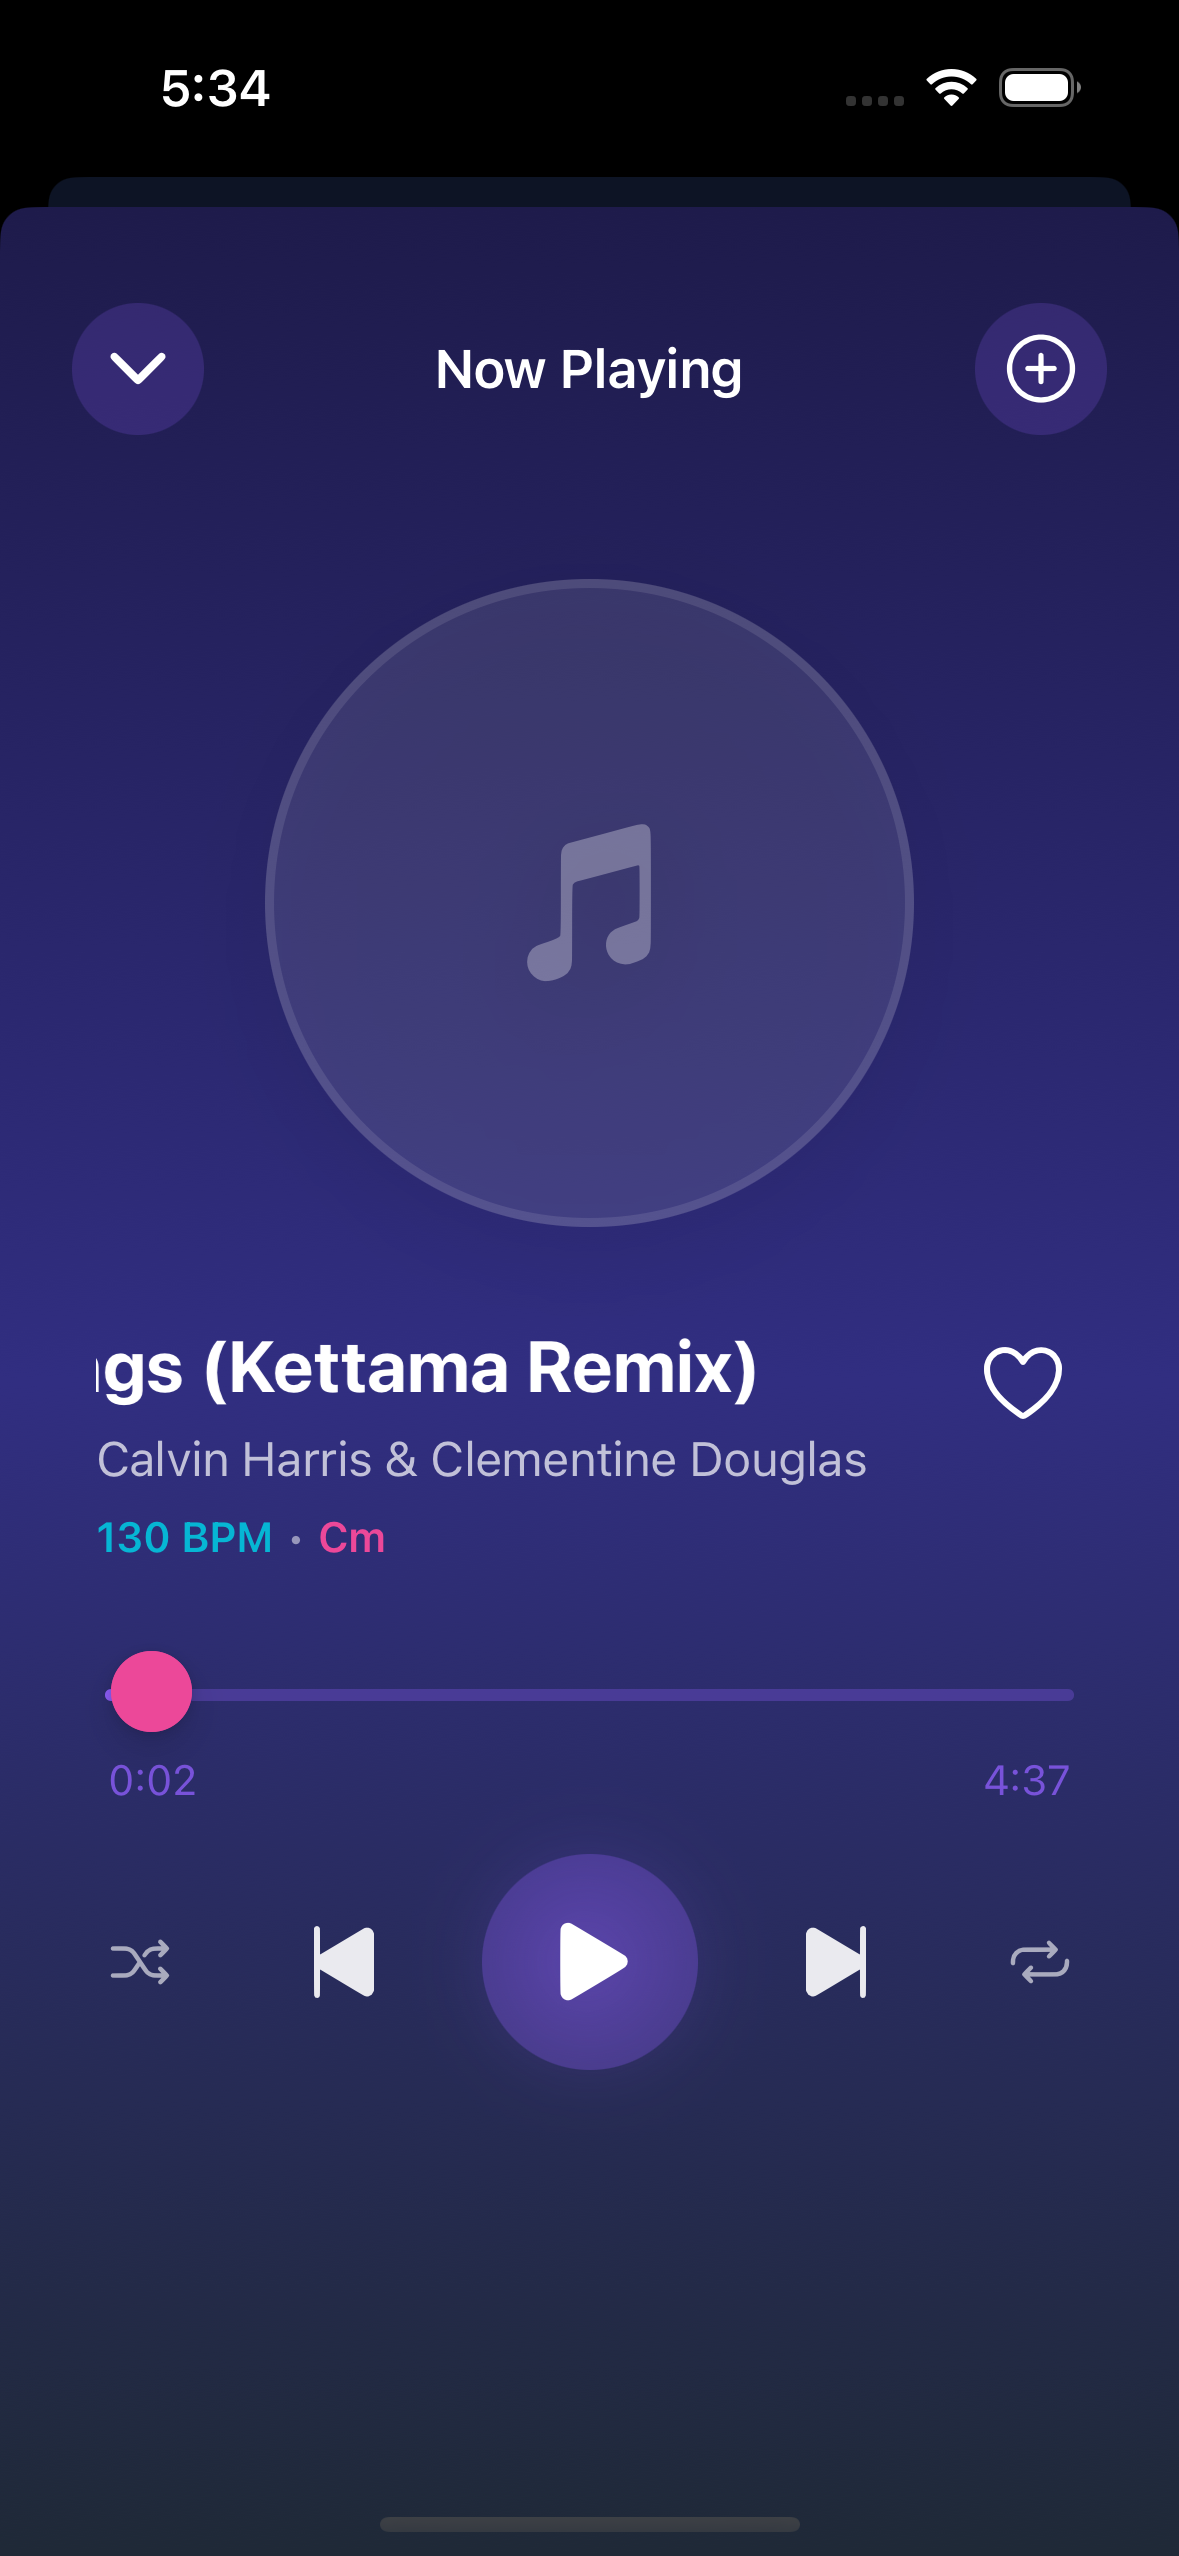
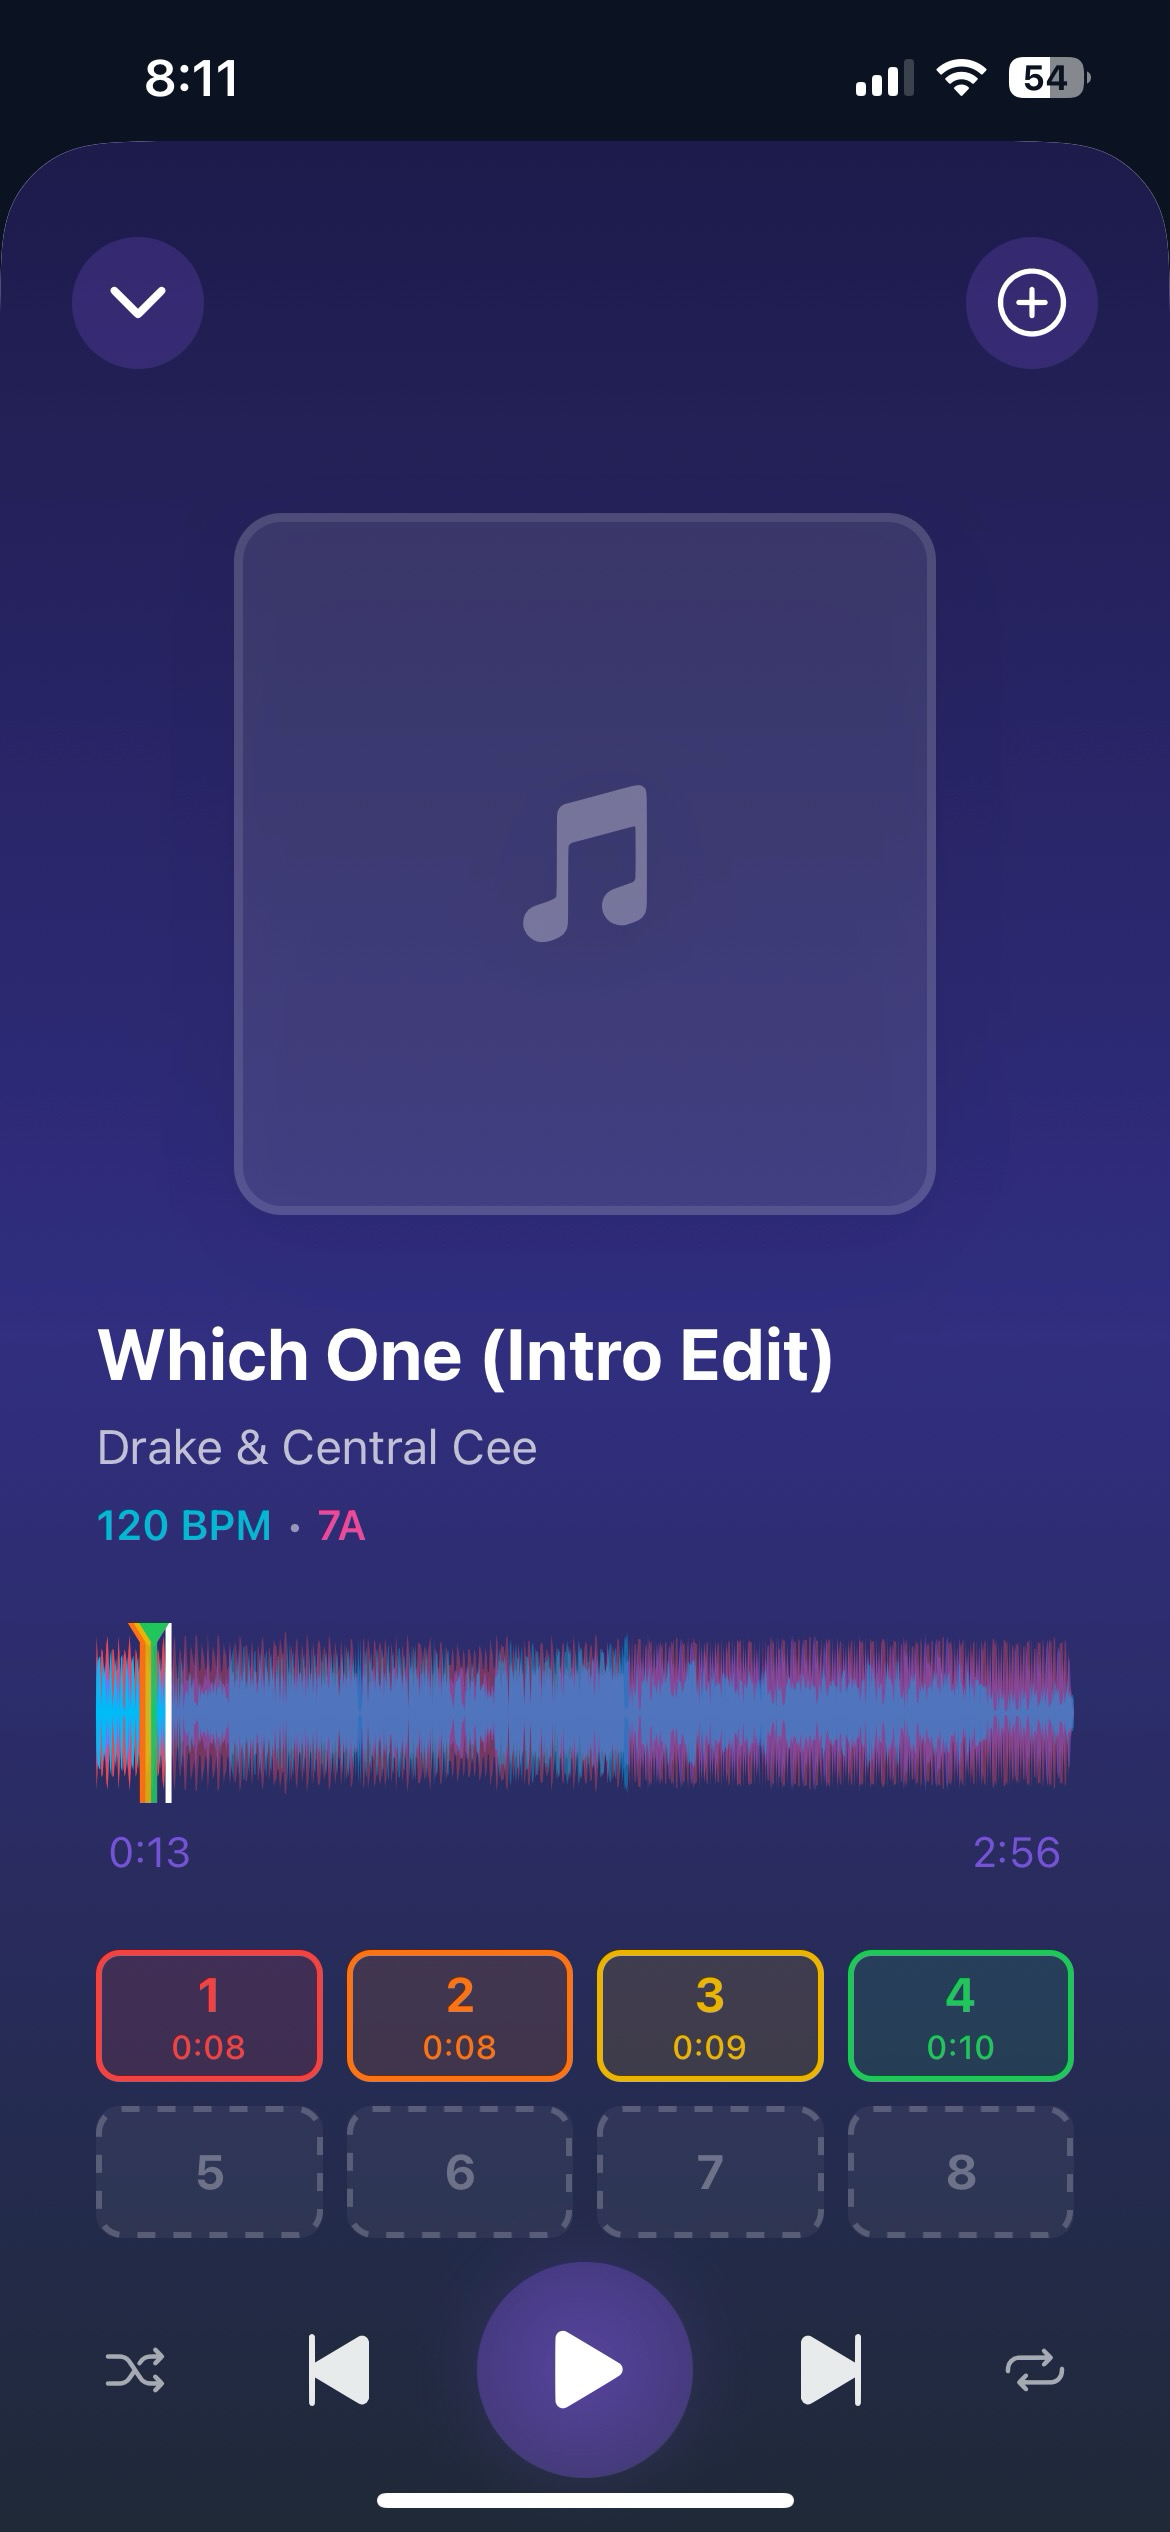
Feature: Add How to Use & FAQ sections to website
- Add "How to Use" section with 4-step setup guide
- Add "FAQ" section with 7 expandable questions
- Update navigation with new section links
- Update player screenshot with waveform/cue points view
- Update feature descriptions (Full Playback, Instant Connection)
- Fix pricing text to reflect 3-day trial model
- Update hero section for upcoming launch

diff --git a/packages/website/src/pages/HomePage.tsx b/packages/website/src/pages/HomePage.tsx
@@ -1,6 +1,6 @@
 import { useState, useEffect, useCallback } from 'react'
 import { motion, AnimatePresence } from 'framer-motion'
-import { Apple, Monitor, Music, Loader2, Check, AlertCircle, Play, SlidersHorizontal, FolderOpen, ListChecks, Wifi, AudioWaveform, Send, Sparkles, Brain, Mail } from 'lucide-react'
+import { Apple, Monitor, Music, Loader2, Check, AlertCircle, Play, SlidersHorizontal, FolderOpen, ListChecks, Wifi, AudioWaveform, Send, Sparkles, Brain, Mail, Smartphone, Download, ChevronDown, HelpCircle } from 'lucide-react'
 
 const GITHUB_REPO = 'djnewage/Recrate'
 
@@ -97,6 +97,9 @@ export default function HomePage() {
   // Waitlist form state
   const [waitlistEmail, setWaitlistEmail] = useState('')
   const [waitlistStatus, setWaitlistStatus] = useState<'idle' | 'sending' | 'success' | 'error'>('idle')
+
+  // FAQ accordion state
+  const [openFaqIndex, setOpenFaqIndex] = useState<number | null>(null)
 
   // Detect chip type on mount
   useEffect(() => {
@@ -299,7 +302,7 @@ export default function HomePage() {
             {/* Mobile App Waitlist */}
             <div className="w-full max-w-md">
               <p className="text-gray-400 text-sm mb-3 text-center">
-                Get notified when the mobile app launches
+                Launching soon — be the first to know
               </p>
               {waitlistStatus === 'success' ? (
                 <motion.div
@@ -399,7 +402,7 @@ export default function HomePage() {
               {
                 icon: Play,
                 title: 'Full Playback',
-                description: 'Preview any track with complete playback controls. Scrub, shuffle, repeat, and see BPM and key at a glance.',
+                description: 'Preview any track with waveform display and cue points. Set and jump to cue points, scrub through tracks, and see BPM and key at a glance.',
                 screenshot: '/screenshots/player.png',
               },
               {
@@ -417,7 +420,7 @@ export default function HomePage() {
               {
                 icon: Wifi,
                 title: 'Instant Connection',
-                description: 'Auto-discover your library over WiFi. No cloud uploads, no setup — just connect and browse.',
+                description: 'Connect locally over WiFi or remotely via mobile data/5G. No cloud uploads — your music streams directly from your desktop.',
                 screenshot: '/screenshots/connect.png',
               },
               {
@@ -517,6 +520,168 @@ export default function HomePage() {
         </div>
       </section>
 
+      {/* How to Use Section */}
+      <section id="how-to-use" className="py-24 px-6 bg-gradient-to-b from-zinc-900 to-zinc-900">
+        <div className="max-w-5xl mx-auto">
+          <motion.div
+            initial={{ opacity: 0, y: 30 }}
+            whileInView={{ opacity: 1, y: 0 }}
+            viewport={{ once: true }}
+            transition={{ duration: 0.6 }}
+            className="text-center mb-16"
+          >
+            <h2 className="text-4xl md:text-5xl font-bold mb-4">
+              How to <span className="gradient-text">Use</span>
+            </h2>
+            <p className="text-xl text-gray-400 max-w-2xl mx-auto">
+              Get started in four simple steps
+            </p>
+          </motion.div>
+
+          <div className="grid md:grid-cols-2 lg:grid-cols-4 gap-6">
+            {[
+              {
+                icon: Download,
+                step: 1,
+                title: 'Download the Desktop App',
+                description: 'Get Recrate for macOS or Windows',
+              },
+              {
+                icon: Smartphone,
+                step: 2,
+                title: 'Install the Mobile App',
+                description: 'Available on iOS and Android',
+              },
+              {
+                icon: Wifi,
+                step: 3,
+                title: 'Connect Your Devices',
+                description: 'Connect via WiFi on the same network OR use mobile data/5G from anywhere',
+              },
+              {
+                icon: Music,
+                step: 4,
+                title: 'Browse & Play',
+                description: 'Access your full Serato library from your phone',
+              },
+            ].map((item, index) => (
+              <motion.div
+                key={item.step}
+                initial={{ opacity: 0, y: 30 }}
+                whileInView={{ opacity: 1, y: 0 }}
+                viewport={{ once: true }}
+                transition={{ duration: 0.6, delay: index * 0.15 }}
+                className="relative p-6 rounded-2xl bg-gradient-to-br from-white/5 to-white/0 border border-white/10 hover:border-purple-500/50 transition-all group text-center"
+              >
+                {/* Step number */}
+                <div className="absolute -top-3 -left-3 w-8 h-8 rounded-full bg-gradient-to-r from-purple-500 to-pink-500 flex items-center justify-center text-sm font-bold shadow-lg">
+                  {item.step}
+                </div>
+                <div className="w-16 h-16 mx-auto rounded-2xl bg-gradient-to-br from-purple-500/20 to-pink-500/20 flex items-center justify-center mb-4 group-hover:scale-110 transition-transform">
+                  <item.icon size={32} className="text-purple-400" />
+                </div>
+                <h3 className="text-lg font-bold mb-2">{item.title}</h3>
+                <p className="text-gray-400 text-sm">{item.description}</p>
+              </motion.div>
+            ))}
+          </div>
+        </div>
+      </section>
+
+      {/* FAQ Section */}
+      <section id="faq" className="py-24 px-6 bg-zinc-900">
+        <div className="max-w-3xl mx-auto">
+          <motion.div
+            initial={{ opacity: 0, y: 30 }}
+            whileInView={{ opacity: 1, y: 0 }}
+            viewport={{ once: true }}
+            transition={{ duration: 0.6 }}
+            className="text-center mb-16"
+          >
+            <div className="w-16 h-16 mx-auto rounded-2xl bg-gradient-to-br from-purple-500/20 to-pink-500/20 flex items-center justify-center mb-6">
+              <HelpCircle size={32} className="text-purple-400" />
+            </div>
+            <h2 className="text-4xl md:text-5xl font-bold mb-4">
+              Frequently Asked <span className="gradient-text">Questions</span>
+            </h2>
+            <p className="text-xl text-gray-400 max-w-2xl mx-auto">
+              Everything you need to know about Recrate
+            </p>
+          </motion.div>
+
+          <div className="space-y-4">
+            {[
+              {
+                question: 'Is my music uploaded to the cloud?',
+                answer: 'No. Your music stays on your computer. Recrate streams directly from your desktop to your phone — nothing is uploaded anywhere.',
+              },
+              {
+                question: 'Do I need to be on the same WiFi network?',
+                answer: "Not necessarily! You can connect locally via WiFi, or use mobile data/5G to access your library from anywhere (requires the desktop server to be online).",
+              },
+              {
+                question: 'What devices are supported?',
+                answer: 'Desktop: macOS 12+ and Windows 10/11. Mobile: iOS and Android.',
+              },
+              {
+                question: 'Is Recrate free?',
+                answer: 'Recrate offers a free 3-day trial with full access to all features. After the trial, a subscription is required to continue using the app.',
+              },
+              {
+                question: 'Does it work with Serato DJ Pro?',
+                answer: "Yes! Recrate reads your Serato library and crates. Changes you make (like creating crates) sync back to Serato. Note: If Serato is open while you make changes in Recrate, you'll need to restart Serato for the changes to take effect.",
+              },
+              {
+                question: 'Does the desktop server need to be running?',
+                answer: "For streaming music, yes — the desktop app must be online. However, Recrate also has an offline mode where you can browse your cached library and make changes (like organizing crates). Streaming won't be available until you reconnect, but any changes you make while offline will automatically sync once the server comes back online.",
+              },
+              {
+                question: 'What audio formats are supported?',
+                answer: 'MP3, WAV, FLAC, AAC, and other common formats that Serato supports.',
+              },
+            ].map((faq, index) => (
+              <motion.div
+                key={index}
+                initial={{ opacity: 0, y: 20 }}
+                whileInView={{ opacity: 1, y: 0 }}
+                viewport={{ once: true }}
+                transition={{ duration: 0.5, delay: index * 0.1 }}
+                className="rounded-2xl bg-gradient-to-br from-white/5 to-white/0 border border-white/10 overflow-hidden"
+              >
+                <button
+                  onClick={() => setOpenFaqIndex(openFaqIndex === index ? null : index)}
+                  className="w-full px-6 py-5 flex items-center justify-between text-left hover:bg-white/5 transition-colors"
+                >
+                  <span className="font-semibold text-lg pr-4">{faq.question}</span>
+                  <motion.div
+                    animate={{ rotate: openFaqIndex === index ? 180 : 0 }}
+                    transition={{ duration: 0.3 }}
+                    className="flex-shrink-0"
+                  >
+                    <ChevronDown size={20} className="text-purple-400" />
+                  </motion.div>
+                </button>
+                <AnimatePresence>
+                  {openFaqIndex === index && (
+                    <motion.div
+                      initial={{ height: 0, opacity: 0 }}
+                      animate={{ height: 'auto', opacity: 1 }}
+                      exit={{ height: 0, opacity: 0 }}
+                      transition={{ duration: 0.3 }}
+                      className="overflow-hidden"
+                    >
+                      <div className="px-6 pb-5 text-gray-400 leading-relaxed">
+                        {faq.answer}
+                      </div>
+                    </motion.div>
+                  )}
+                </AnimatePresence>
+              </motion.div>
+            ))}
+          </div>
+        </div>
+      </section>
+
       {/* Download Section */}
       <section id="download" className="py-24 px-6 bg-gradient-to-b from-zinc-900 to-zinc-900">
         <div className="max-w-4xl mx-auto text-center">
@@ -530,7 +695,7 @@ export default function HomePage() {
               Download <span className="gradient-text">Recrate</span>
             </h2>
             <p className="text-xl text-gray-400 mb-12">
-              Available for macOS and Windows. Free to use.
+              Available for macOS and Windows. Free 3-day trial included.
             </p>
           </motion.div>
 

diff --git a/packages/website/src/components/Layout.tsx b/packages/website/src/components/Layout.tsx
@@ -22,6 +22,8 @@ export default function Layout({ children }: LayoutProps) {
             <div className="hidden md:flex items-center gap-8">
               <a href="#features" className="text-gray-300 hover:text-white transition-colors">Features</a>
               <a href="#demo" className="text-gray-300 hover:text-white transition-colors">Demo</a>
+              <a href="#how-to-use" className="text-gray-300 hover:text-white transition-colors">How to Use</a>
+              <a href="#faq" className="text-gray-300 hover:text-white transition-colors">FAQ</a>
               <a href="#download" className="text-gray-300 hover:text-white transition-colors">Download</a>
               <a href="#contact" className="text-gray-300 hover:text-white transition-colors">Contact</a>
             </div>
